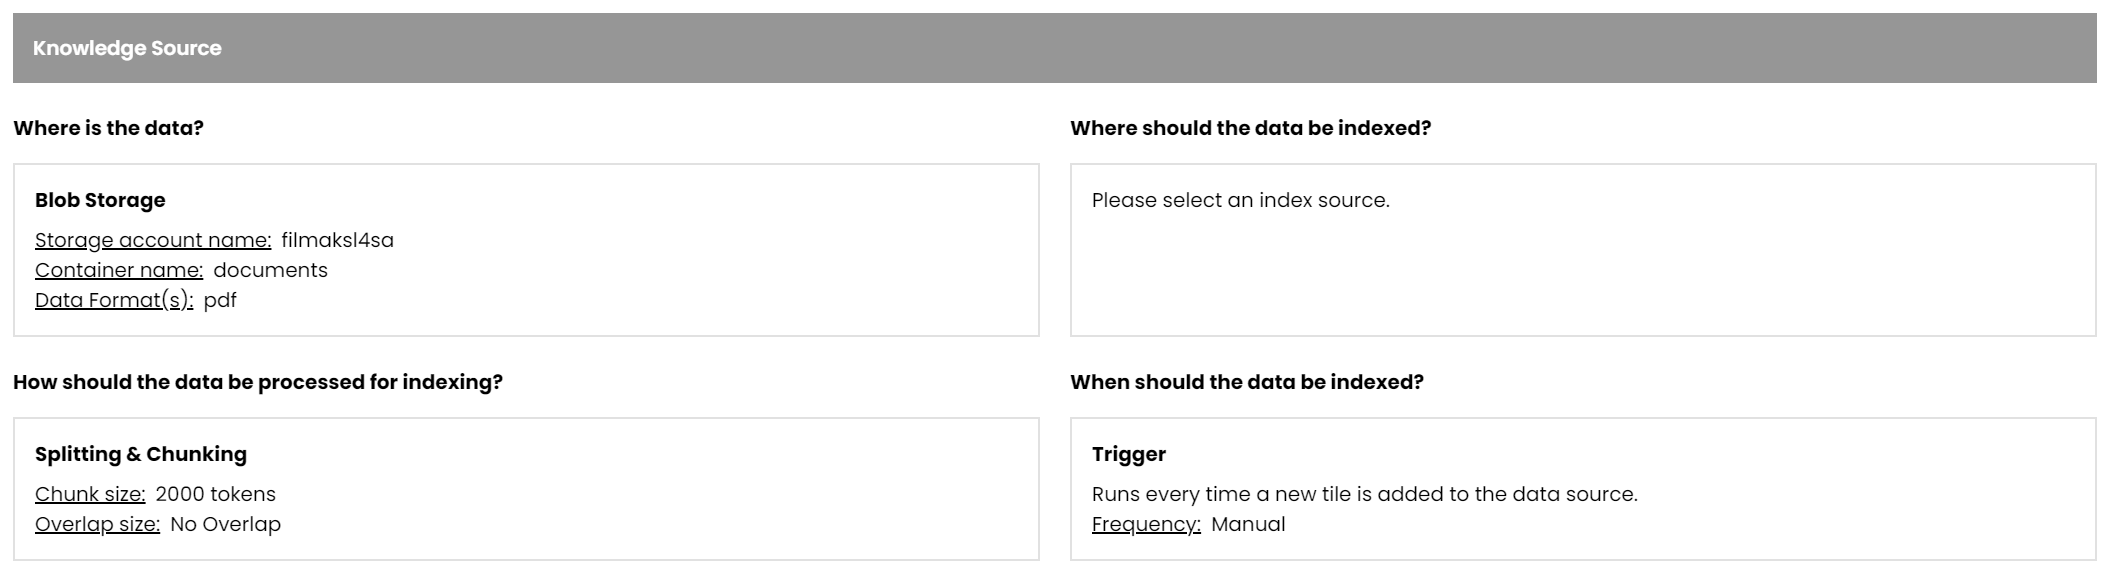
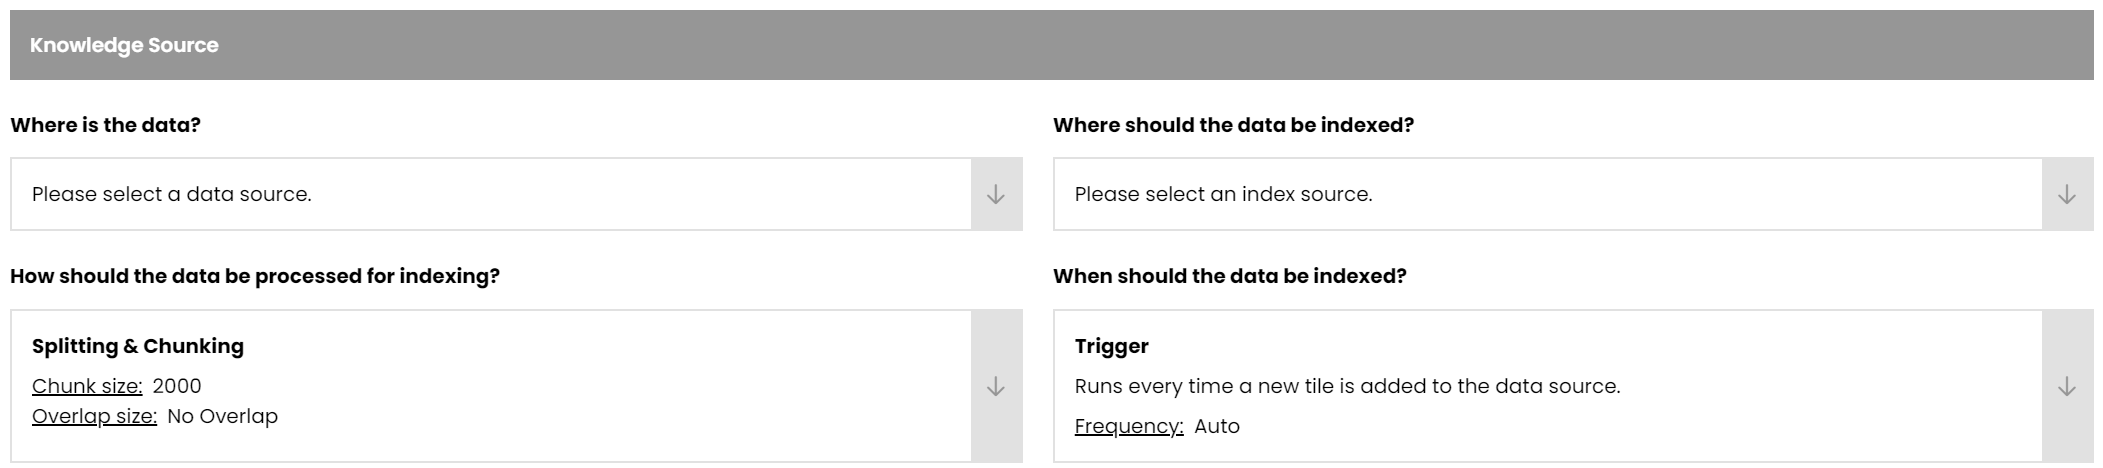
New Management UI docs.

diff --git a/docs/setup-guides/management-ui/management-ui.md b/docs/setup-guides/management-ui/management-ui.md
@@ -1,0 +1,54 @@
+# Management UI
+
+The Management UI enables FLLM administrators to configure agents without directly calling the Management API.
+
+## Creating New Agent
+
+1. Navigate to the **Create New Agent** page using the side navigation bar.
+    
+    ![FLLM Create New Agent tab.](../media/fllm-management-interface.png "Create New Agent")
+
+2. Set the agent type: **Knowledge Management** or **Analytics**.
+
+    ![Create New Agent select Agent Type.](../media/agent-type-selection.png "Agent Type")
+
+3. Set the agent Knowledge Source:
+
+    ![Agent Knowledge Source four-tile view.](../media/agent-knowledge-source.png "Agent Knowledge Source")
+
+     - Expand the dropdown arrow next to the upper left box. Select the entry with the correct **Storage account name**, artifacts **Container name**, and file **Data Format(s)**. Then, select **Done**.
+
+        ![Agent Blob Storage Data Sources.](../media/agent-data-source-dropdown.png "Blob Storage Data Sources")
+
+     - Expand the dropdown arrow next to the upper right box to open the Azure AI Search index dropdown. The vectorized content will be populated in the selected index. Select **Done**.
+
+        ![Agent Knowledge Source Index Selection.](../media/aisearch-index-dropdown.png "Index Selection")
+     
+     - Expand the dropdown arrow next to the lower left box. Set the **Chunk size** and **Overlap size** settings for vectorization. Select **Done**.
+
+        ![Agent Splitting & Chunking Configuration.](../media/set-splitting-and-chunking.png "Splitting & Chunking")
+
+     - Expand the dropdown arrow next to the lower right box. Set the trigger **Frequency** and select **Done**.
+
+        ![Agent Vectorization Trigger Frequency.](../media/vectorization-trigger.png "Vectorization Trigger Frequency")
+
+4. Configure user-agent interactions.
+
+    ![User-Agent Interactions & Gatekeeper Configuration.](../media/user-agent-interactions-config.png "User-Agent Interactions")
+
+    - Enable conversation history using the `Yes/No` Radio Button. Select **Done**.
+
+        ![Agent Enable/Disable Conversation History.](../media/enable-disable-conversation-history.png "Enable/Disable Conversation History.")
+
+    - Configure the Gatekeeper. Then, select **Done**.
+        - `Enable/Disable` the Gatekeeper using the Radio Button
+        - Set the **Content Safety** platform to either `None` or `Azure Content Safety` using the dropdown menu
+        - Set the **Data Protection** platform to either `None` or `Microsoft Presidio` using the dropdown menu
+
+        ![Agent Gatekeeper Status, Content Safety Configuration, and Data Protection Configuration.](../media/gatekeeper-config.png "Gatekeeper Configuration")
+
+5. Lastly, set the **System Prompt**. The prompt prefixes users' requests to the agent, influencing the tone and functionality of the agent.
+
+    ![Set Agent Prompt.](../media/set-system-prompt.png "Agent Prompt")
+
+6. After setting the desired agent configuration, select **Create Agent** at the bottom right-hand corner of the page. You will be able to edit the agent configuration after creation.
